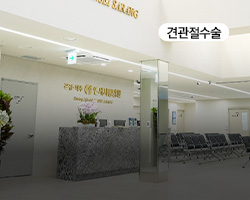
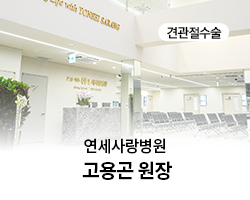
썸네일 변경 완료 250414

diff --git a/SpinalJoints/VertebraeKR.html b/SpinalJoints/VertebraeKR.html
@@ -76,41 +76,41 @@
                 </div>
                 <div class="hospital__bottom">
                     <ul>
-                        <li>
+                        <li style="border: 1px solid #e4e4e4;">
                             <a href="/doctor/SpinalJoints/Dr_HyeunSungKim.html">
-                                <div class="hospital__list">
+                                <div class="hospital__list" style="display: none;">
                                     <span>청담해리슨병원</span>
                                     <span>김현성 원장</span>
                                 </div>
                             </a>
                         </li>
-                        <li>
+                        <li style="border: 1px solid #e4e4e4;">
                             <a href="/doctor/SpinalJoints/Dr_ChoJungKi.html">
-                                <div class="hospital__list">
+                                <div class="hospital__list" style="display: none;">
                                     <span>가톨릭대학교 의정부성모병원</span>
                                     <span>조정기 원장</span>
                                 </div>
                             </a>
                         </li>
-                        <li>
+                        <li style="border: 1px solid #e4e4e4;">
                             <a href="/doctor/SpinalJoints/Dr_KimJiYeon.html">
-                                <div class="hospital__list">
+                                <div class="hospital__list" style="display: none;">
                                     <span>세란병원</span>
                                     <span>김지연 원장</span>
                                 </div>
                             </a>
                         </li>
-                        <li>
+                        <li style="border: 1px solid #e4e4e4;">
                             <a href="/doctor/SpinalJoints/Dr_LeeChulWoo.html">
-                                <div class="hospital__list">
+                                <div class="hospital__list" style="display: none;">
                                     <span>새힘병원</span>
                                     <span>이철우 원장</span>
                                 </div>
                             </a>
                         </li>
-                        <li>
+                        <li style="border: 1px solid #e4e4e4;">
                             <a href="/doctor/SpinalJoints/Dr_HaJiSoo.html">
-                                <div class="hospital__list">
+                                <div class="hospital__list" style="display: none;">
                                     <span>연세오케이병원</span>
                                     <span>하지수 원장</span>
                                 </div>

diff --git a/SpinalJoints/JointKR.html b/SpinalJoints/JointKR.html
@@ -76,9 +76,9 @@
                 </div>
                 <div class="hospital__bottom">
                     <ul>
-                        <li>
+                        <li style="border: 1px solid #e4e4e4;">
                             <a href="/doctor/SpinalJoints/Dr_KoYongGon.html">
-                                <div class="hospital__list">
+                                <div class="hospital__list" style="display: none;">
                                     <span>연세사랑병원</span>
                                     <span>고용곤 원장</span>
                                 </div>
